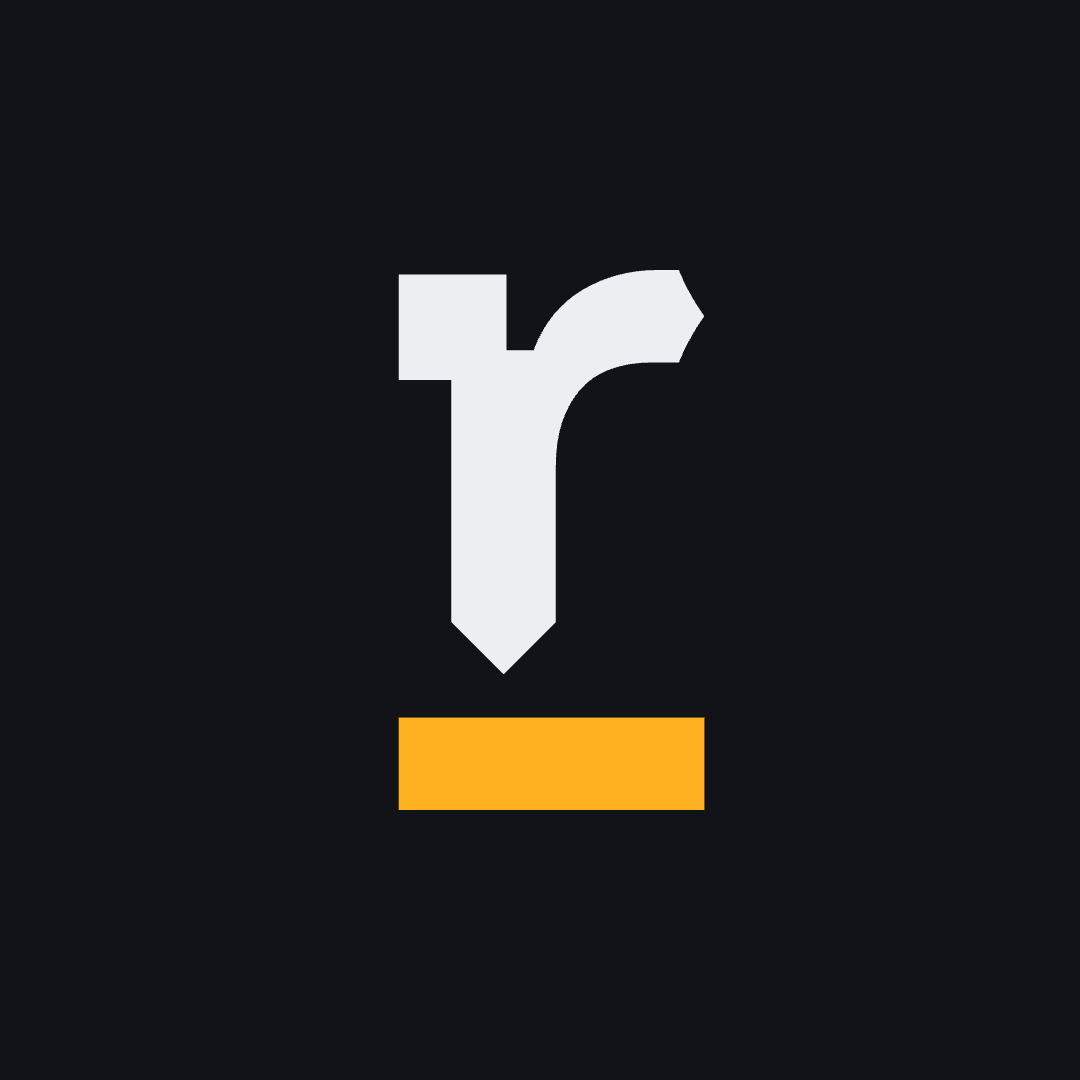
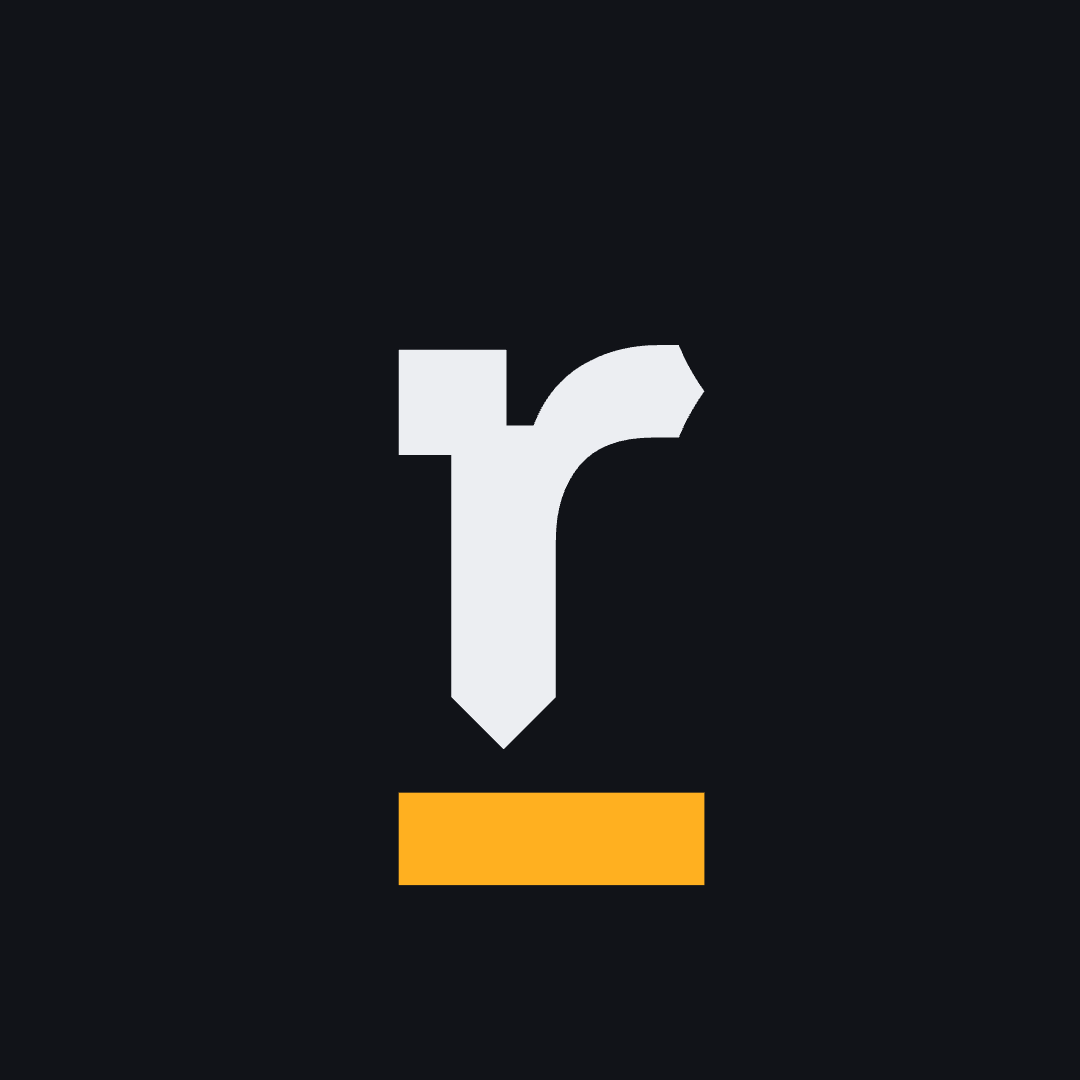
feat: the Instagram picture centres the letter, the underline below
In a round crop the eye takes the "r" as the centre: with the whole mark
centred, the letter sat high. Now the letter (top to baseline) is in the
middle and the underline hangs below it, still well inside the circle.

Refs #62

Changed region(s): [[0.3667, 0.5806, 0.6722, 0.825], [0.3667, 0.2444, 0.6722, 0.4889]]

diff --git a/tools/make-icons.py b/tools/make-icons.py
@@ -17,10 +17,14 @@ X, Y, W, H = mark['box']  # font units, y down: the letter's top at Y, the under
 paths = ''.join(f'<path fill="{"#ffb020" if role == "line" else "#eceef2"}" d="{d}"/>' for role, d in mark['parts'].items())
 
 
-def svg(size=64, rounded=True, fill_frac=0.6):
-    """The mark centred on the dark background, fill_frac of the size tall."""
+def svg(size=64, rounded=True, fill_frac=0.6, centre_letter=False):
+    """The mark centred on the dark background, fill_frac of the size tall. centre_letter: the
+    letter (its top to the baseline) in the middle and the underline below it, for round crops,
+    where the eye takes the letter as the centre; otherwise the whole mark is centred."""
     s = size * fill_frac / H
     tx, ty = size / 2 - (X + W / 2) * s, (size - H * s) / 2 - Y * s
+    if centre_letter:
+        ty = size / 2 - Y / 2 * s
     rect = f'<rect width="{size}" height="{size}" rx="{size * 0.22 if rounded else 0:g}" fill="#111318"/>'
     return (f'<svg xmlns="http://www.w3.org/2000/svg" viewBox="0 0 {size} {size}">{rect}'
             f'<g transform="translate({tx:.3f} {ty:.3f}) scale({s:.5f} {-s:.5f})">{paths}</g></svg>\n')
@@ -29,4 +33,4 @@ def svg(size=64, rounded=True, fill_frac=0.6):
 open('public/icons/favicon.svg', 'w').write(svg(64, True))
 open('public/icons/touch-icon.svg', 'w').write(svg(180, False, fill_frac=0.5))
 os.makedirs('docs/brand/instagram', exist_ok=True)
-open('docs/brand/instagram/profile.svg', 'w').write(svg(1080, False, fill_frac=0.5))
+open('docs/brand/instagram/profile.svg', 'w').write(svg(1080, False, fill_frac=0.5, centre_letter=True))
